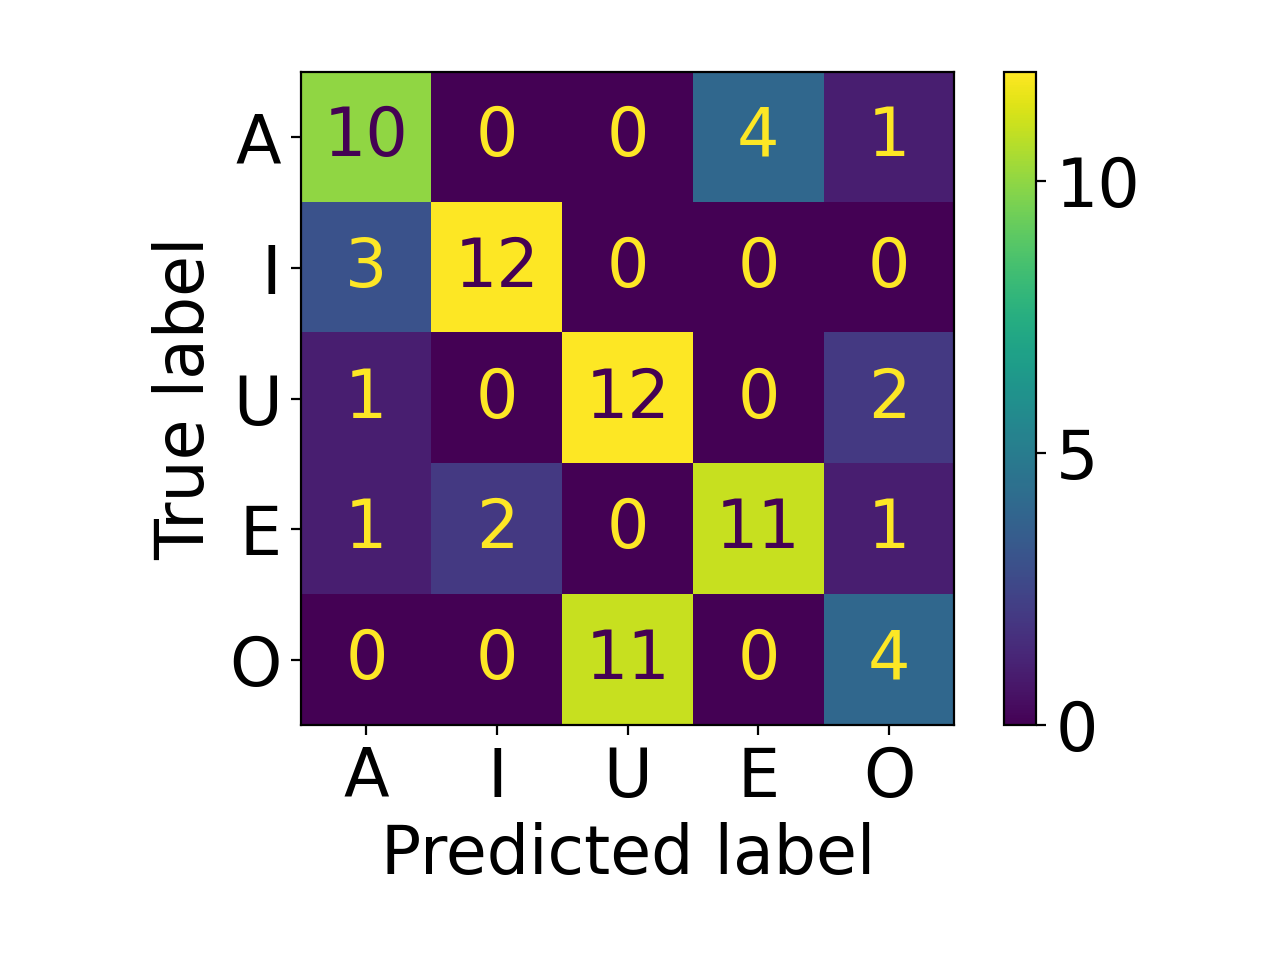
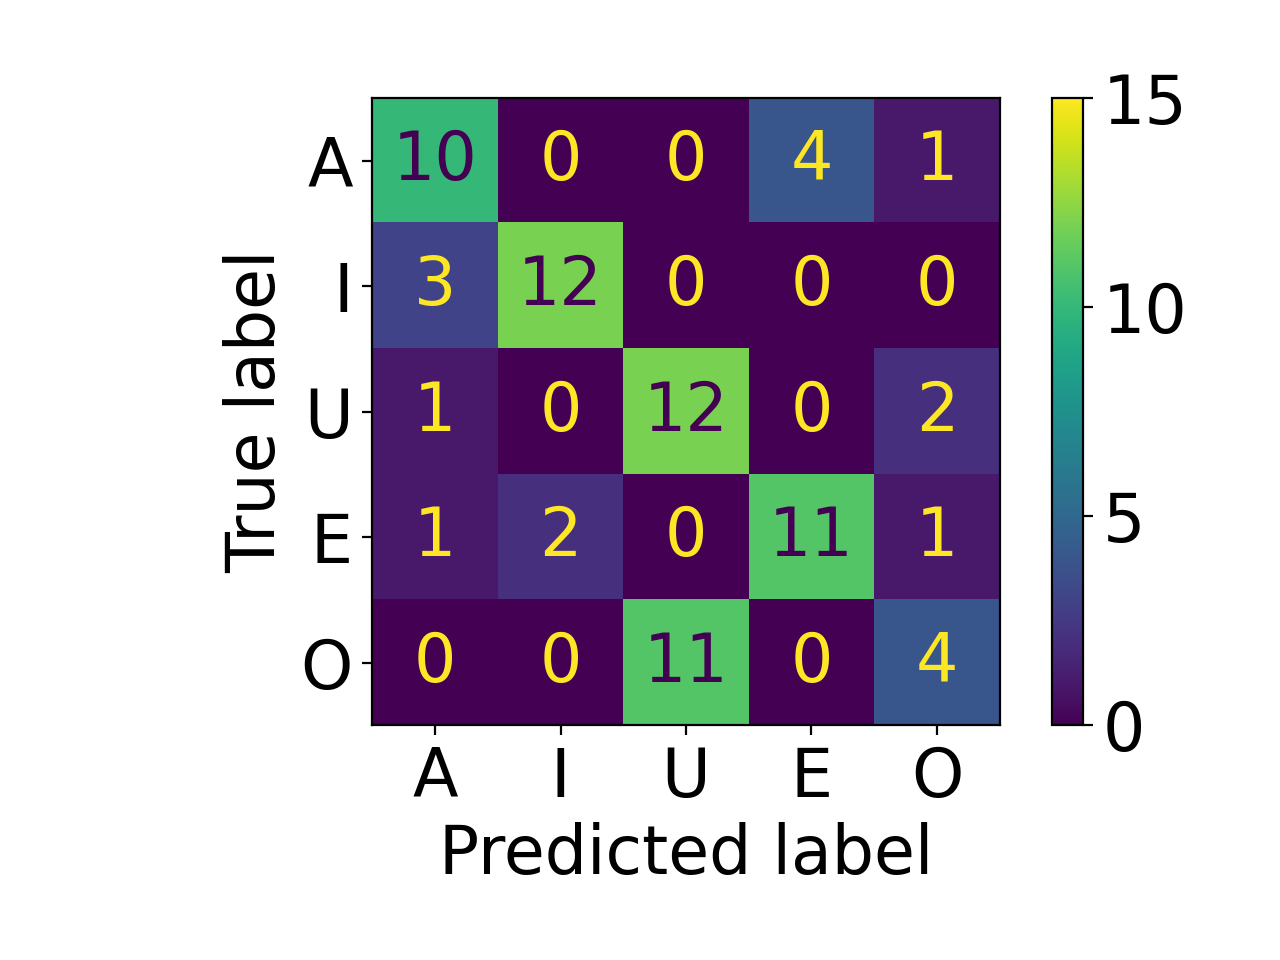
スライド用画像修正2/13

Changed region(s): [[0.0938, 0.0625, 0.9375, 0.9375]]

diff --git a/RealSense/faceTrain_SVM2.py b/RealSense/faceTrain_SVM2.py
@@ -50,10 +50,11 @@ SEED = 42
 LABEL_ORDER = ["A", "I", "U", "E", "O"]
 
 # 出力ルート（ここに ALL_MODEL / SUBJECT_MODELS などが作られる）
-OUT_ROOT = Path(r"./ALL2/mouth_ply_subject_eval_out")
+OUT_ROOT = Path(r"./DataSet/mouth_ply_subject_eval_out")
 OUT_ROOT.mkdir(parents=True, exist_ok=True)
 
 CM_DPI = 200
+CM_VMAX = 15
 
 # SVM + GridSearch（必要なら範囲だけ編集。要求では「その他はCV」なのでここは現行踏襲）
 SVM_KERNEL = "rbf"
@@ -119,11 +120,13 @@ def build_pipeline(seed: int) -> Pipeline:
     ])
 
 
-def save_confusion_matrix_png(path: Path, cm: np.ndarray, label_names: list[str], dpi: int = 200) -> None:
+def save_confusion_matrix_png(path: Path, cm: np.ndarray, label_names: list[str], dpi: int = 200, vmax=None) -> None:
     path.parent.mkdir(parents=True, exist_ok=True)
     disp = ConfusionMatrixDisplay(confusion_matrix=cm, display_labels=label_names)
     plt.rcParams["font.size"] = 24
     disp.plot(values_format="d")
+    if vmax is not None and disp.im_ is not None:
+        disp.im_.set_clim(0, vmax)
     disp.figure_.tight_layout()
     disp.figure_.savefig(path, dpi=dpi)
     plt.close(disp.figure_)
@@ -251,7 +254,7 @@ def main():
 
         sd = per_subj_dir / subj
         sd.mkdir(parents=True, exist_ok=True)
-        save_confusion_matrix_png(sd / "confusion_matrix.png", cm, LABEL_ORDER, dpi=CM_DPI)
+        save_confusion_matrix_png(sd / "confusion_matrix.png", cm, LABEL_ORDER, dpi=CM_DPI, vmax=CM_VMAX)
         save_text = classification_report(
             y_te, y_pred, labels=labels_fixed, target_names=LABEL_ORDER, digits=4
         )
@@ -260,7 +263,7 @@ def main():
         per_subj_rows.append({"subject": subj, "n_test": int(len(y_te)), "acc_all_model": acc})
 
     overall_acc = float(correct_sum / total_sum) if total_sum else 0.0
-    save_confusion_matrix_png(all_model_dir / "confusion_matrix_ALL_subject_tests.png", cm_sum, LABEL_ORDER, dpi=CM_DPI)
+    save_confusion_matrix_png(all_model_dir / "confusion_matrix_ALL_subject_tests.png", cm_sum, LABEL_ORDER, dpi=CM_DPI, vmax=CM_VMAX)
 
     # ALLモデル保存
     joblib.dump(
@@ -327,7 +330,7 @@ def main():
         od = subj_models_dir / subj
         od.mkdir(parents=True, exist_ok=True)
 
-        save_confusion_matrix_png(od / "confusion_matrix.png", cm_sub, LABEL_ORDER, dpi=CM_DPI)
+        save_confusion_matrix_png(od / "confusion_matrix.png", cm_sub, LABEL_ORDER, dpi=CM_DPI, vmax=CM_VMAX)
         (od / "report.txt").write_text(report_sub, encoding="utf-8")
 
         joblib.dump(
